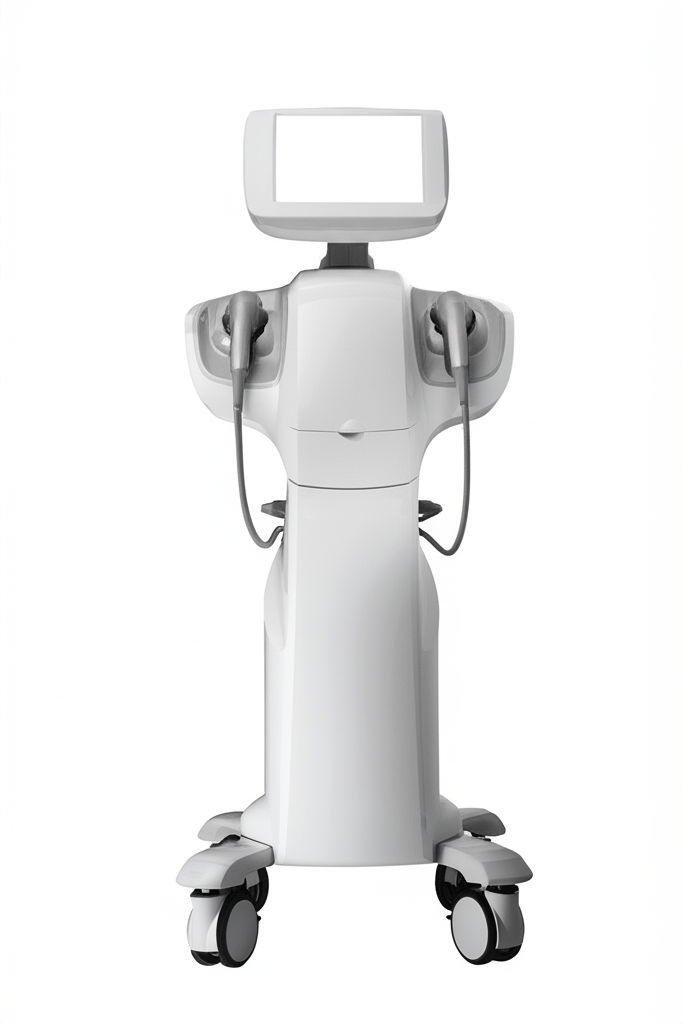
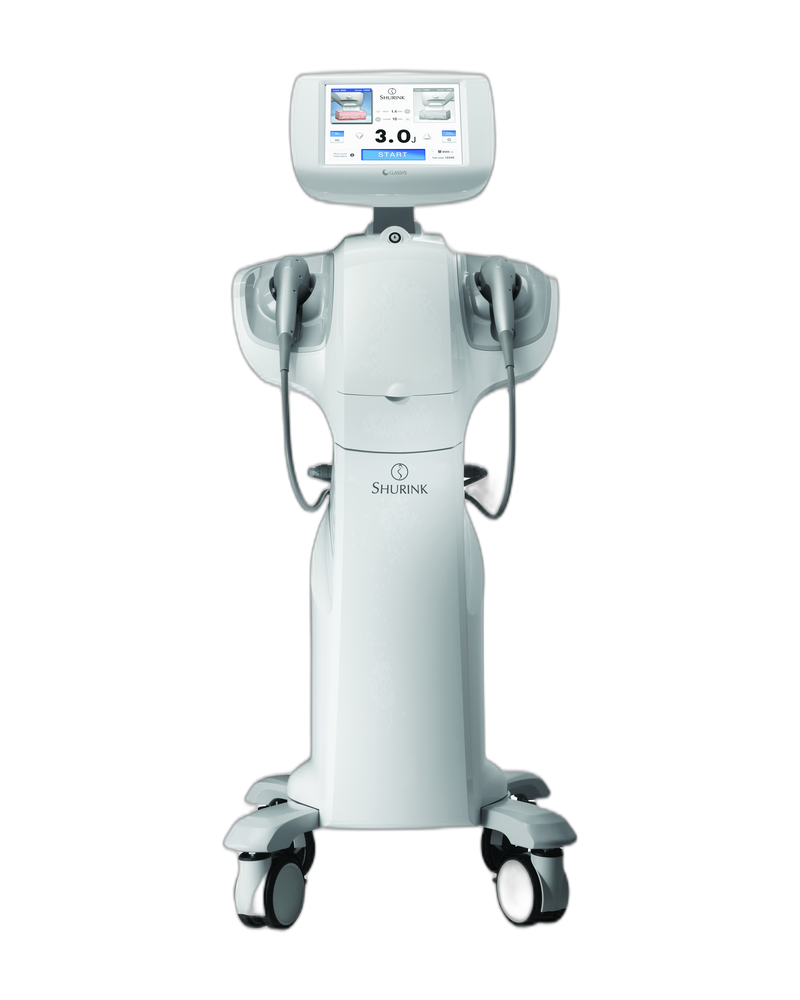
feat: Lifting 페이지 이미지를 홈페이지 장비 이미지와 동일하게 통일
- 홈페이지 Equipment 섹션과 동일한 장비 이미지로 교체
- 울쎄라피: ultherapy.png (홈페이지와 동일)
- 써마지: thermage-flx.png (홈페이지와 동일)
- 덴서티: density.png (홈페이지와 동일)
- 슈링크: shurink.png (홈페이지와 동일)
- 인모드: inmode.png (홈페이지와 동일)
- 실리프팅: 골드 PDO 실 이미지 생성 (Nano Banana Pro)
- 카드 비율 4:3 → 4:5 변경 (세로 장비 이미지에 최적화)
- background-image → img 태그 + object-contain으로 변경

Changed region(s): [[0.246, 0.062, 0.7994, 0.961], [0.4919, 0.372, 0.5534, 0.434]]

diff --git a/liv-clinic/src/app/[locale]/lifting/page.tsx b/liv-clinic/src/app/[locale]/lifting/page.tsx
@@ -57,17 +57,13 @@ export default function LiftingPage({
               <AnimateOnScroll key={treatment.id}>
                 <Link href={`/lifting/${treatment.id}`}>
                   <Card padding="none" className="overflow-hidden group cursor-pointer h-full">
-                    <div className="aspect-[4/3] bg-gradient-to-br from-primary/20 to-secondary/20 relative overflow-hidden">
-                      <div
-                        className="w-full h-full bg-cover bg-center transition-transform duration-500 group-hover:scale-105"
-                        style={{ backgroundImage: `url(/images/treatments/${treatment.id}.png)` }}
+                    <div className="aspect-[4/5] bg-gradient-to-b from-white to-background relative overflow-hidden flex items-center justify-center p-6">
+                      <img
+                        src={`/images/treatments/${treatment.id}.png`}
+                        alt={treatment.name}
+                        className="max-w-full max-h-full object-contain transition-transform duration-500 group-hover:scale-105"
                       />
-                      <div className="absolute inset-0 flex items-center justify-center">
-                        <span className="font-serif text-5xl text-white/30">
-                          {treatment.nameEn.charAt(0)}
-                        </span>
-                      </div>
-                      <div className="absolute inset-0 bg-gradient-to-t from-black/60 to-transparent opacity-0 group-hover:opacity-100 transition-opacity duration-300" />
+                      <div className="absolute inset-0 bg-gradient-to-t from-black/40 to-transparent opacity-0 group-hover:opacity-100 transition-opacity duration-300" />
                     </div>
                     <div className="p-6">
                       <p className="text-small text-primary mb-2">{treatment.nameEn}</p>
